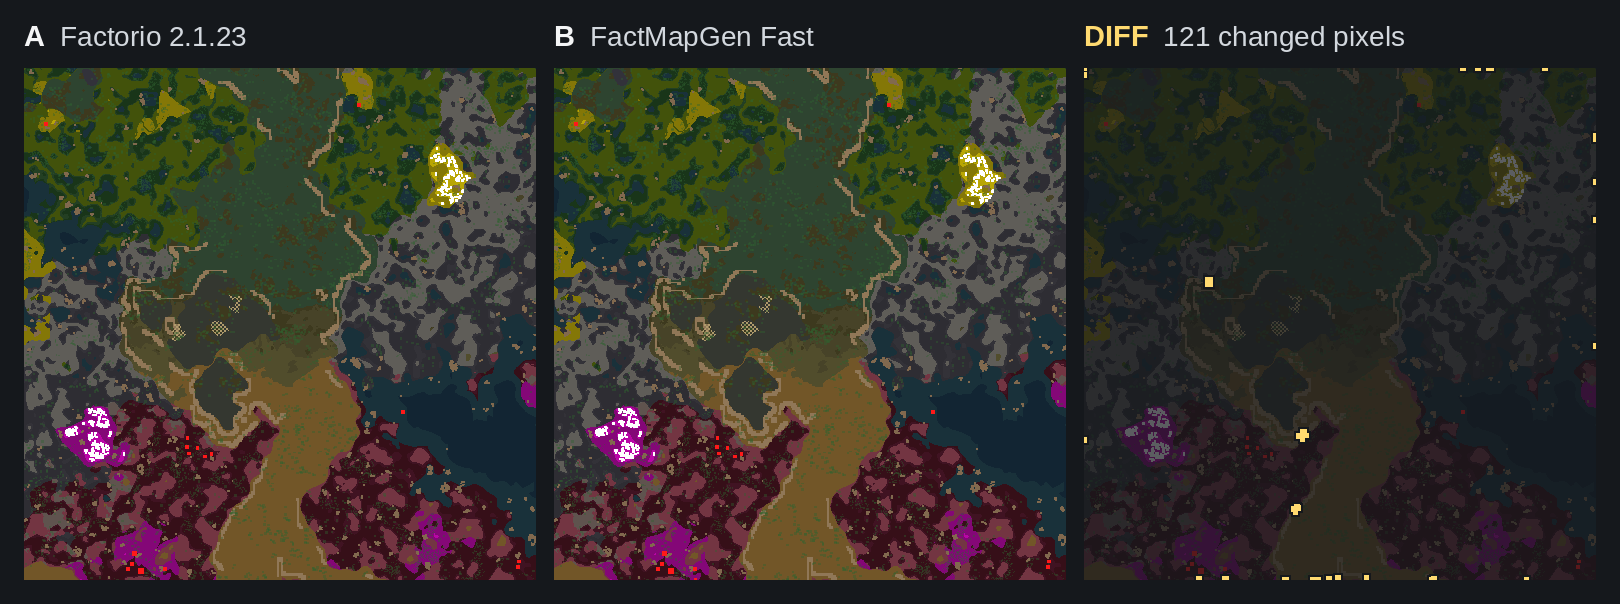
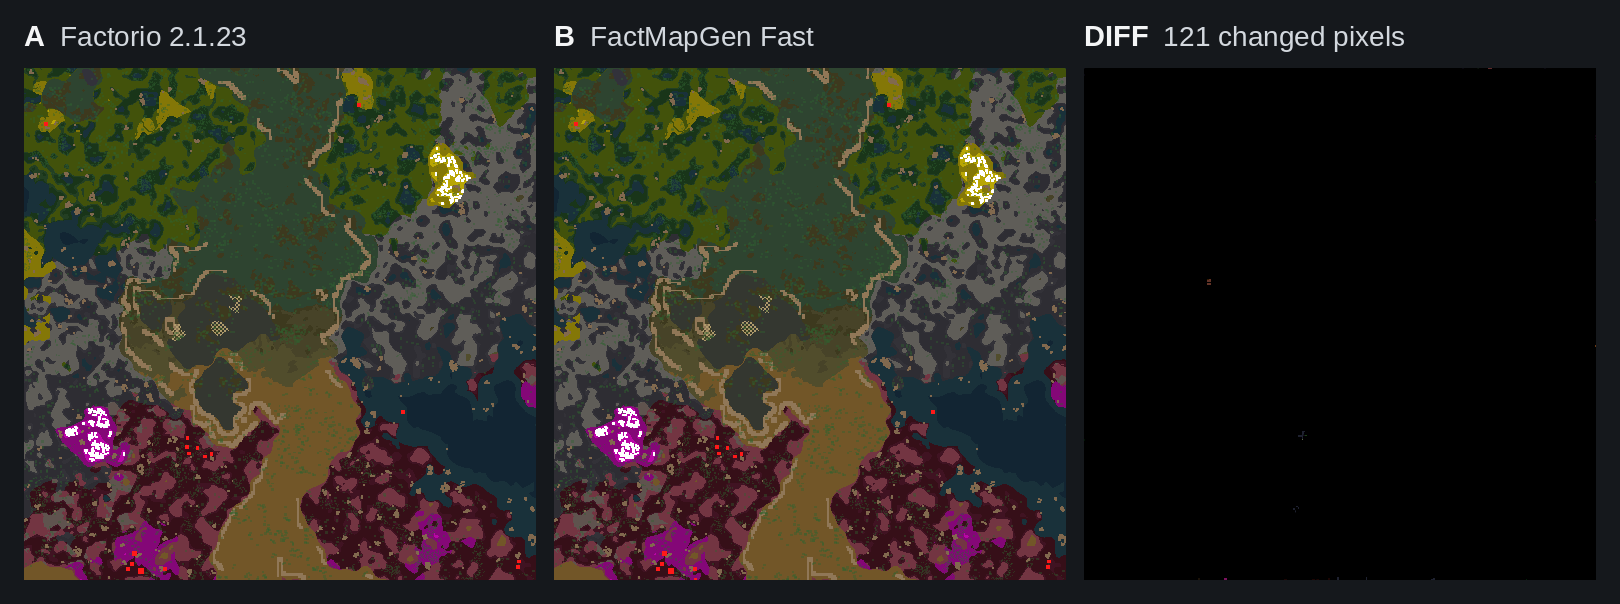
Show actual RGB differences in accuracy comparisons

Changed region(s): [[0.6481, 0.0298, 0.9877, 0.9834]]

diff --git a/docs/factorio-2.1-accuracy.md b/docs/factorio-2.1-accuracy.md
@@ -22,7 +22,7 @@ These figures describe the sampled preview images. Results can vary with the see
 
 ## Visual comparison
 
-All five comparisons use seed `123456`. A is Factorio’s preview, B is FactMapGen’s Fast preview, and DIFF marks the pixels that changed. The markers are enlarged so individual differences are visible.
+All five comparisons use seed `123456`. A is Factorio’s preview and B is FactMapGen’s Fast preview. DIFF shows the absolute difference between their red, green, and blue values at each pixel. Identical pixels are black.
 
 ### Nauvis
 
